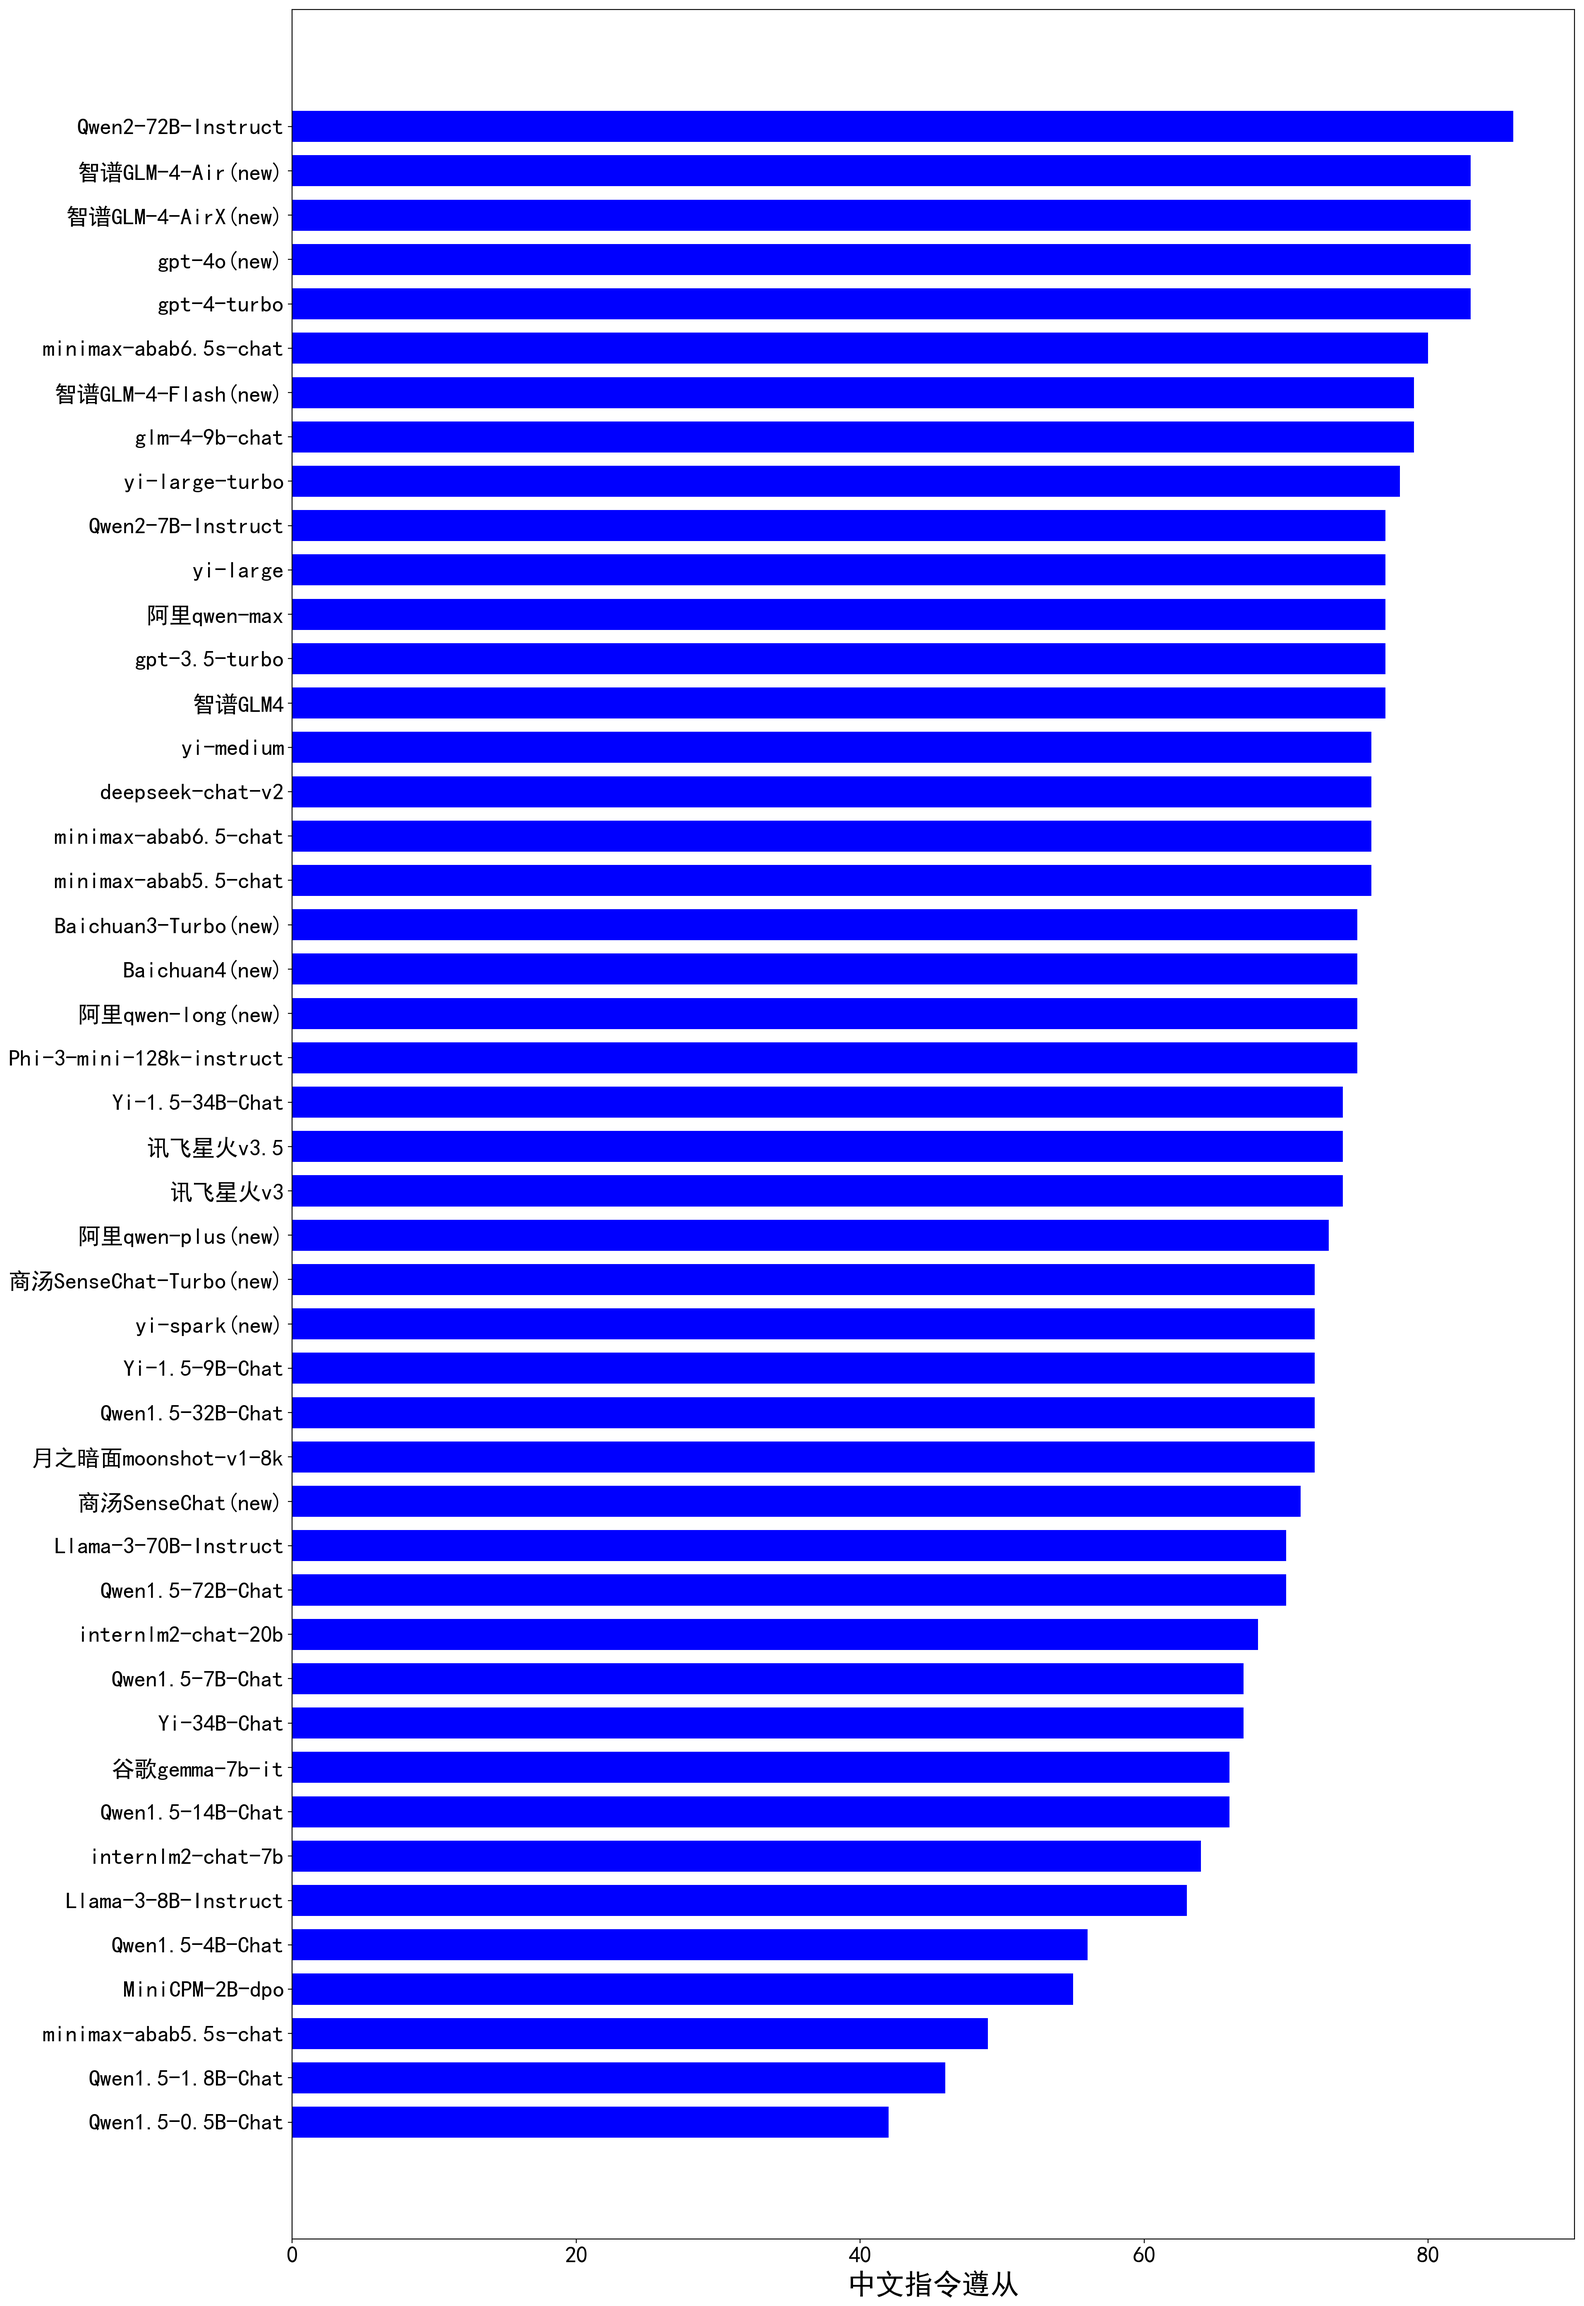
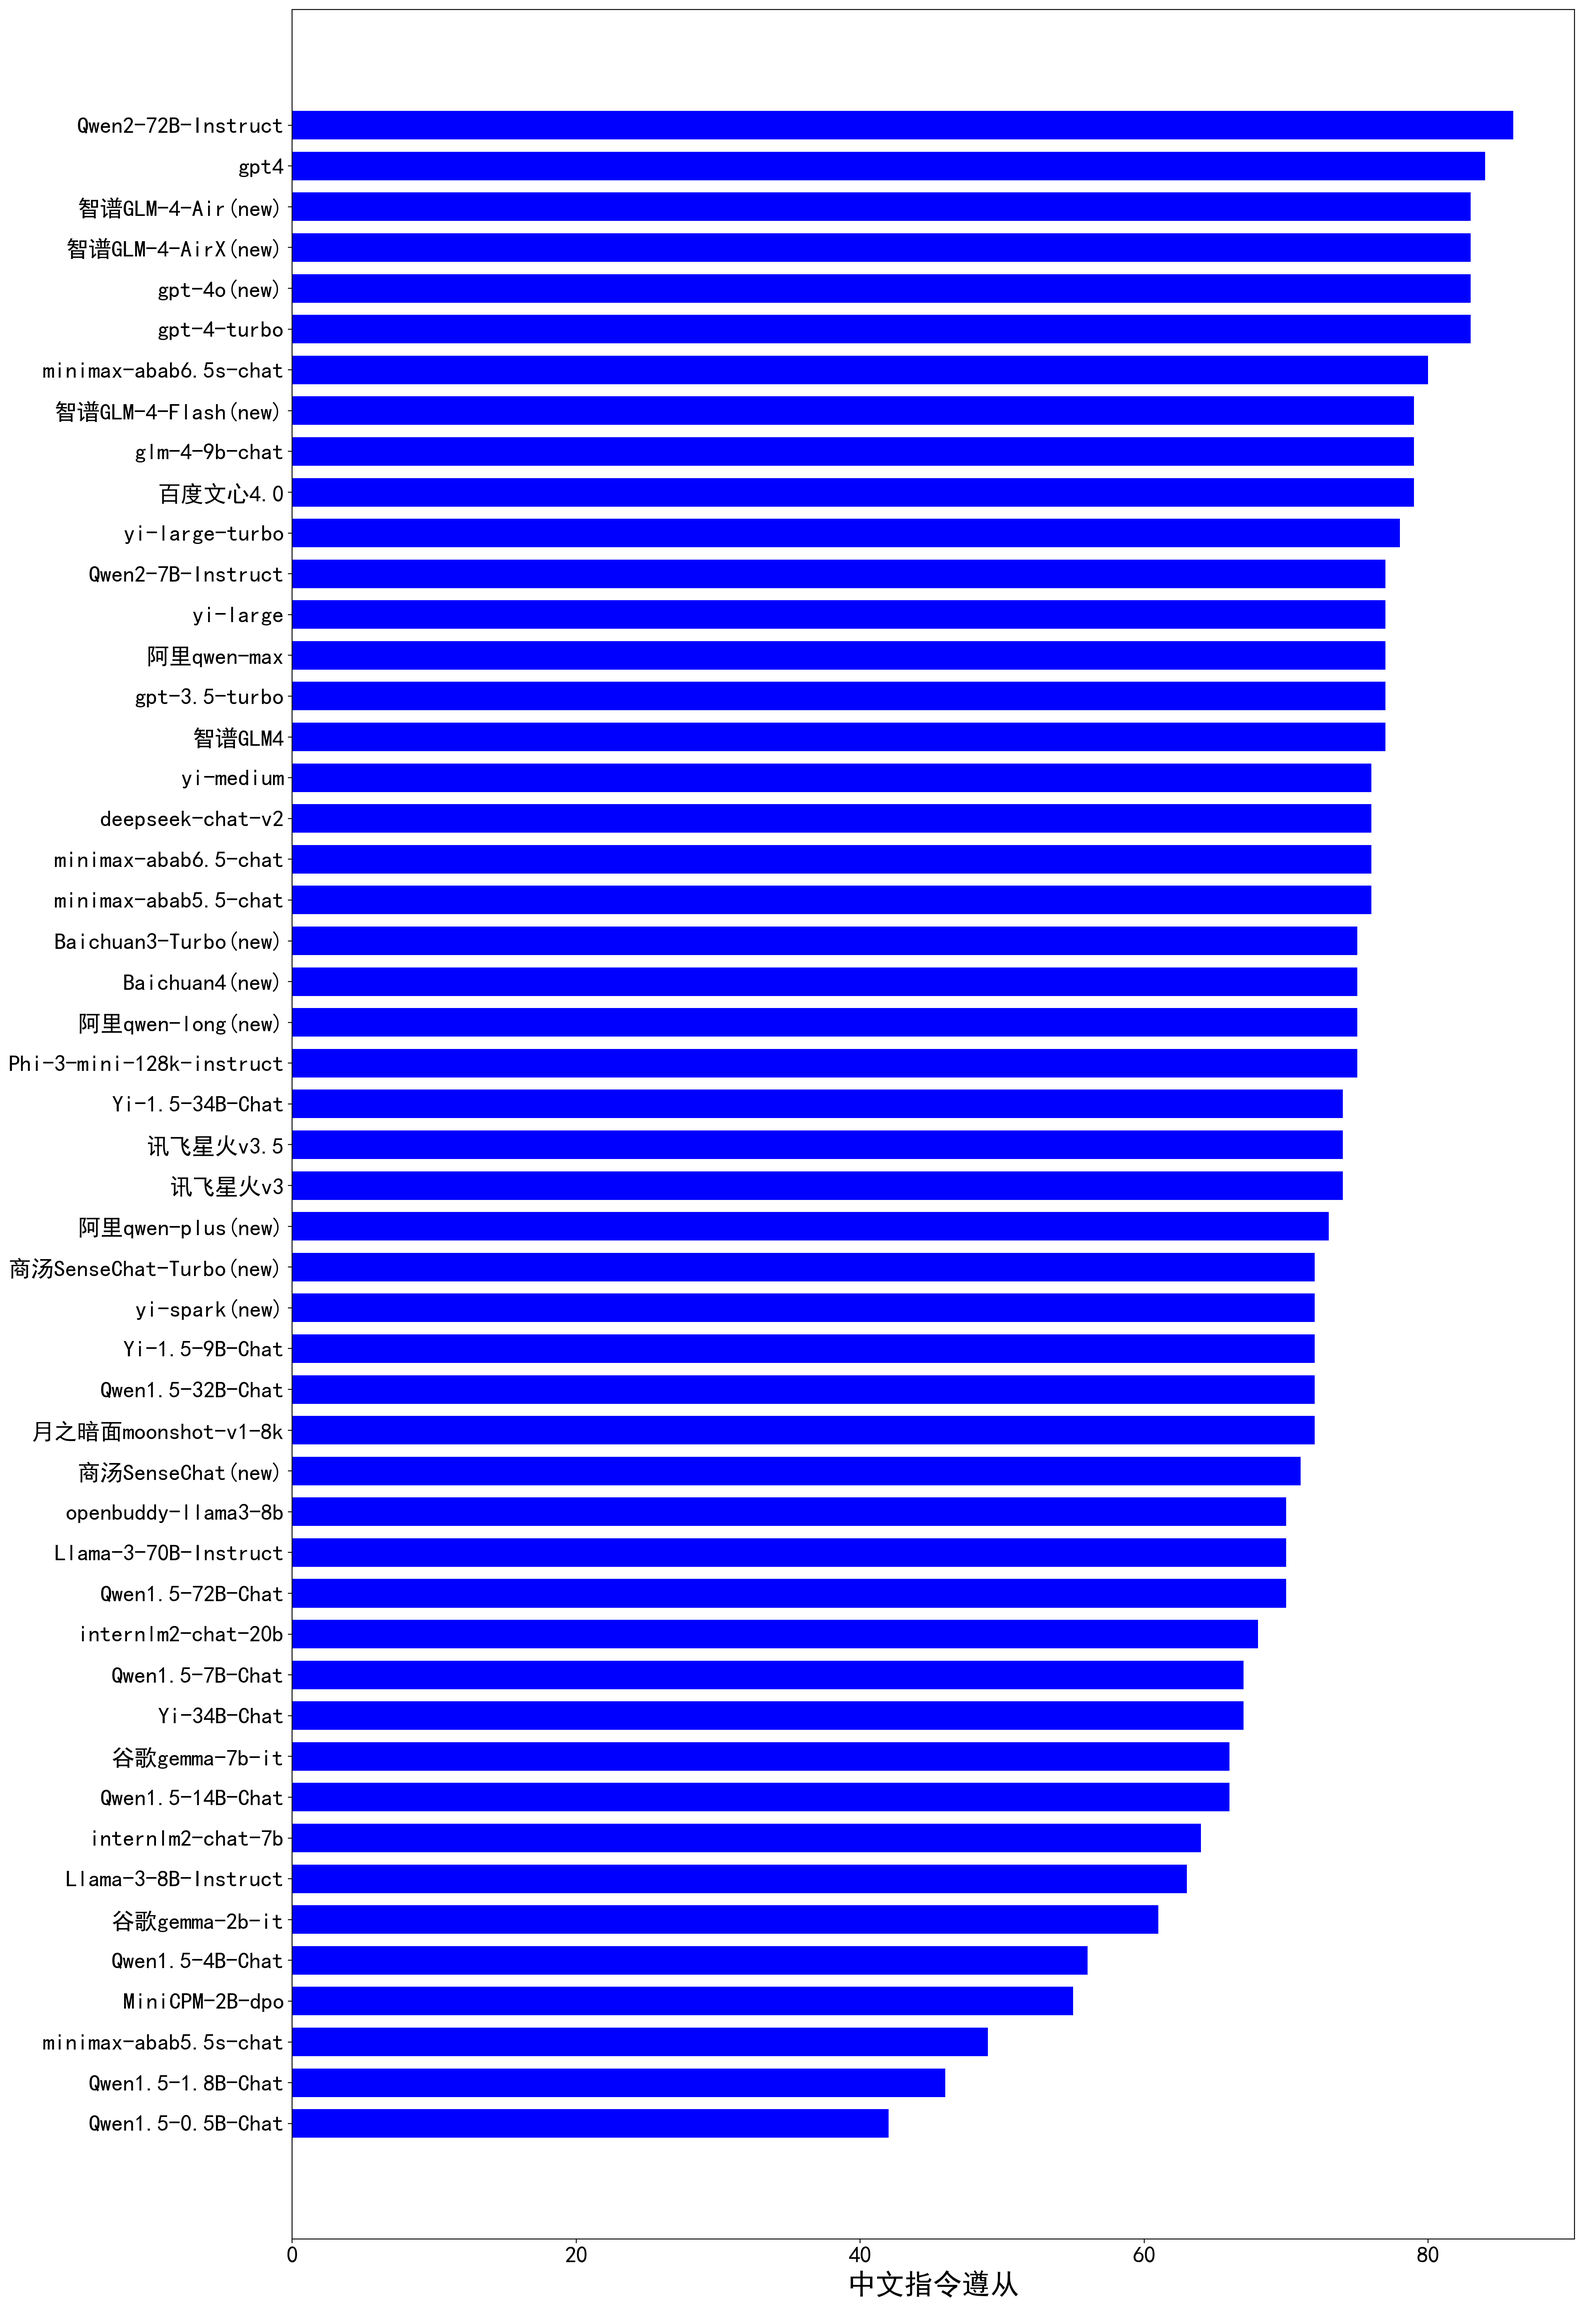
IFEval data

Changed region(s): [[0.0, 0.0624, 0.9324, 0.9051]]

diff --git a/IFEval.md b/IFEval.md
@@ -2,71 +2,71 @@
 | 类别 | 大模型                         | 中文指令遵从 | 排名 |
 |-----|------------------------------|---------|----|
 |开源|Qwen2-72B-Instruct|86.0|1|
-|商用|智谱GLM-4-Air(new)|83.0|2|
-|商用|gpt-4o(new)|83.0|3|
-|商用|gpt-4-turbo|83.0|4|
-|商用|智谱GLM-4-AirX(new)|83.0|5|
-|商用|minimax-abab6.5s-chat|80.0|6|
-|商用|智谱GLM-4-Flash(new)|79.0|7|
-|开源|glm-4-9b-chat|79.0|8|
-|商用|yi-large-turbo|78.0|9|
-|商用|yi-large|77.0|10|
-|商用|gpt-3.5-turbo|77.0|11|
-|商用|智谱GLM4|77.0|12|
-|商用|阿里qwen-max|77.0|13|
-|开源|Qwen2-7B-Instruct|77.0|14|
-|商用|deepseek-chat-v2|76.0|15|
-|商用|minimax-abab6.5-chat|76.0|16|
-|商用|minimax-abab5.5-chat|76.0|17|
-|商用|yi-medium|76.0|18|
-|开源|Phi-3-mini-128k-instruct|75.0|19|
-|商用|Baichuan3-Turbo(new)|75.0|20|
-|商用|Baichuan4(new)|75.0|21|
-|商用|阿里qwen-long(new)|75.0|22|
-|开源|Yi-1.5-34B-Chat|74.0|23|
-|商用|讯飞星火v3.5|74.0|24|
-|商用|讯飞星火v3|74.0|25|
-|商用|阿里qwen-plus(new)|73.0|26|
-|商用|月之暗面moonshot-v1-8k|72.0|27|
-|商用|商汤SenseChat-Turbo(new)|72.0|28|
+|商用|gpt4|84.0|2|
+|商用|智谱GLM-4-Air(new)|83.0|3|
+|商用|gpt-4o(new)|83.0|4|
+|商用|gpt-4-turbo|83.0|5|
+|商用|智谱GLM-4-AirX(new)|83.0|6|
+|商用|minimax-abab6.5s-chat|80.0|7|
+|商用|智谱GLM-4-Flash(new)|79.0|8|
+|开源|glm-4-9b-chat|79.0|9|
+|商用|百度文心4.0|79.0|10|
+|商用|yi-large-turbo|78.0|11|
+|商用|gpt-3.5-turbo|77.0|12|
+|开源|Qwen2-7B-Instruct|77.0|13|
+|商用|阿里qwen-max|77.0|14|
+|商用|yi-large|77.0|15|
+|商用|智谱GLM4|77.0|16|
+|商用|yi-medium|76.0|17|
+|商用|deepseek-chat-v2|76.0|18|
+|商用|minimax-abab6.5-chat|76.0|19|
+|商用|minimax-abab5.5-chat|76.0|20|
+|商用|阿里qwen-long(new)|75.0|21|
+|商用|Baichuan4(new)|75.0|22|
+|商用|Baichuan3-Turbo(new)|75.0|23|
+|开源|Phi-3-mini-128k-instruct|75.0|24|
+|商用|讯飞星火v3.5|74.0|25|
+|开源|Yi-1.5-34B-Chat|74.0|26|
+|商用|讯飞星火v3|74.0|27|
+|商用|阿里qwen-plus(new)|73.0|28|
 |商用|yi-spark(new)|72.0|29|
-|开源|Yi-1.5-9B-Chat|72.0|30|
-|开源|Qwen1.5-32B-Chat|72.0|31|
-|商用|商汤SenseChat(new)|71.0|32|
-|开源|Qwen1.5-72B-Chat|70.0|33|
-|开源|Llama-3-70B-Instruct|70.0|34|
-|开源|internlm2-chat-20b|68.0|35|
-|开源|Yi-34B-Chat|67.0|36|
-|开源|Qwen1.5-7B-Chat|67.0|37|
-|开源|Qwen1.5-14B-Chat|66.0|38|
-|开源|谷歌gemma-7b-it|66.0|39|
-|开源|internlm2-chat-7b|64.0|40|
-|开源|Llama-3-8B-Instruct|63.0|41|
-|开源|Qwen1.5-4B-Chat|56.0|42|
-|开源|MiniCPM-2B-dpo|55.0|43|
-|商用|minimax-abab5.5s-chat|49.0|44|
-|开源|Qwen1.5-1.8B-Chat|46.0|45|
-|开源|Qwen1.5-0.5B-Chat|42.0|46|
-|商用|gpt4|/|47|
-|开源|openbuddy-llama3-8b|/|48|
-|开源|aquilachat2-34b|/|49|
-|商用|百度文心4.0|/|50|
-|开源|openbuddy-deepseek-67b|/|51|
-|开源|tigerbot-70b-chat-v3|/|52|
-|商用|baichuan3|/|53|
+|开源|Qwen1.5-32B-Chat|72.0|30|
+|商用|月之暗面moonshot-v1-8k|72.0|31|
+|开源|Yi-1.5-9B-Chat|72.0|32|
+|商用|商汤SenseChat-Turbo(new)|72.0|33|
+|商用|商汤SenseChat(new)|71.0|34|
+|开源|Qwen1.5-72B-Chat|70.0|35|
+|开源|openbuddy-llama3-8b|70.0|36|
+|开源|Llama-3-70B-Instruct|70.0|37|
+|开源|internlm2-chat-20b|68.0|38|
+|开源|Qwen1.5-7B-Chat|67.0|39|
+|开源|Yi-34B-Chat|67.0|40|
+|开源|Qwen1.5-14B-Chat|66.0|41|
+|开源|谷歌gemma-7b-it|66.0|42|
+|开源|internlm2-chat-7b|64.0|43|
+|开源|Llama-3-8B-Instruct|63.0|44|
+|开源|谷歌gemma-2b-it|61.0|45|
+|开源|Qwen1.5-4B-Chat|56.0|46|
+|开源|MiniCPM-2B-dpo|55.0|47|
+|商用|minimax-abab5.5s-chat|49.0|48|
+|开源|Qwen1.5-1.8B-Chat|46.0|49|
+|开源|Qwen1.5-0.5B-Chat|42.0|50|
+|开源|BlueLM-7B-Chat|/|51|
+|商用|baichuan3|/|52|
+|开源|openbuddy-zephyr-7b|/|53|
 |开源|Baichuan2-13B-Chat|/|54|
-|开源|openbuddy-zephyr-7b|/|55|
-|开源|BlueLM-7B-Chat|/|56|
-|开源|tigerbot-13b-chat-v4|/|57|
-|开源|deepseek-llm-67b-chat|/|58|
-|商用|minimax-abab6-chat|/|59|
-|开源|Baichuan2-7B-Chat|/|60|
-|开源|openbuddy-mixtral-7bx8|/|61|
-|开源|openbuddy-mistral-7b|/|62|
-|开源|Yi-6B-Chat|/|63|
-|开源|chatglm3-6b|/|64|
-|开源|Llama-2-70b-chat|/|65|
-|开源|miniCPM-2B-sft|/|66|
-|开源|谷歌gemma-2b-it|/|67|
+|开源|tigerbot-70b-chat-v3|/|55|
+|开源|tigerbot-13b-chat-v4|/|56|
+|开源|openbuddy-deepseek-67b|/|57|
+|开源|miniCPM-2B-sft|/|58|
+|开源|aquilachat2-34b|/|59|
+|开源|deepseek-llm-67b-chat|/|60|
+|开源|Baichuan2-7B-Chat|/|61|
+|开源|openbuddy-mixtral-7bx8|/|62|
+|开源|openbuddy-mistral-7b|/|63|
+|开源|Yi-6B-Chat|/|64|
+|开源|chatglm3-6b|/|65|
+|开源|Llama-2-70b-chat|/|66|
+|商用|minimax-abab6-chat|/|67|
 |开源|AquilaChat2-70B-Expr|/|68|
 

diff --git a/README.md b/README.md
@@ -121,11 +121,10 @@
 | 商用  | gpt-4         | 输入：217.2元，输出： 434.4元 | openAI |
 | 商用  | gpt-3.5-turbo | 输入：3.6元，输出：10.9元     | openAI |
 | ... | ...           | ...                  | ...    |   
-<br>
+<br> 
 
-详见 [中文大模型资源汇总（商用及开源）](LLM-info.md)   
-<br><br>    
-
+详见 [中文大模型资源汇总（商用及开源）](LLM-info.md)
+<br><br>
 
 ## 📊 排行榜
 ### 1、综合能力排行榜
